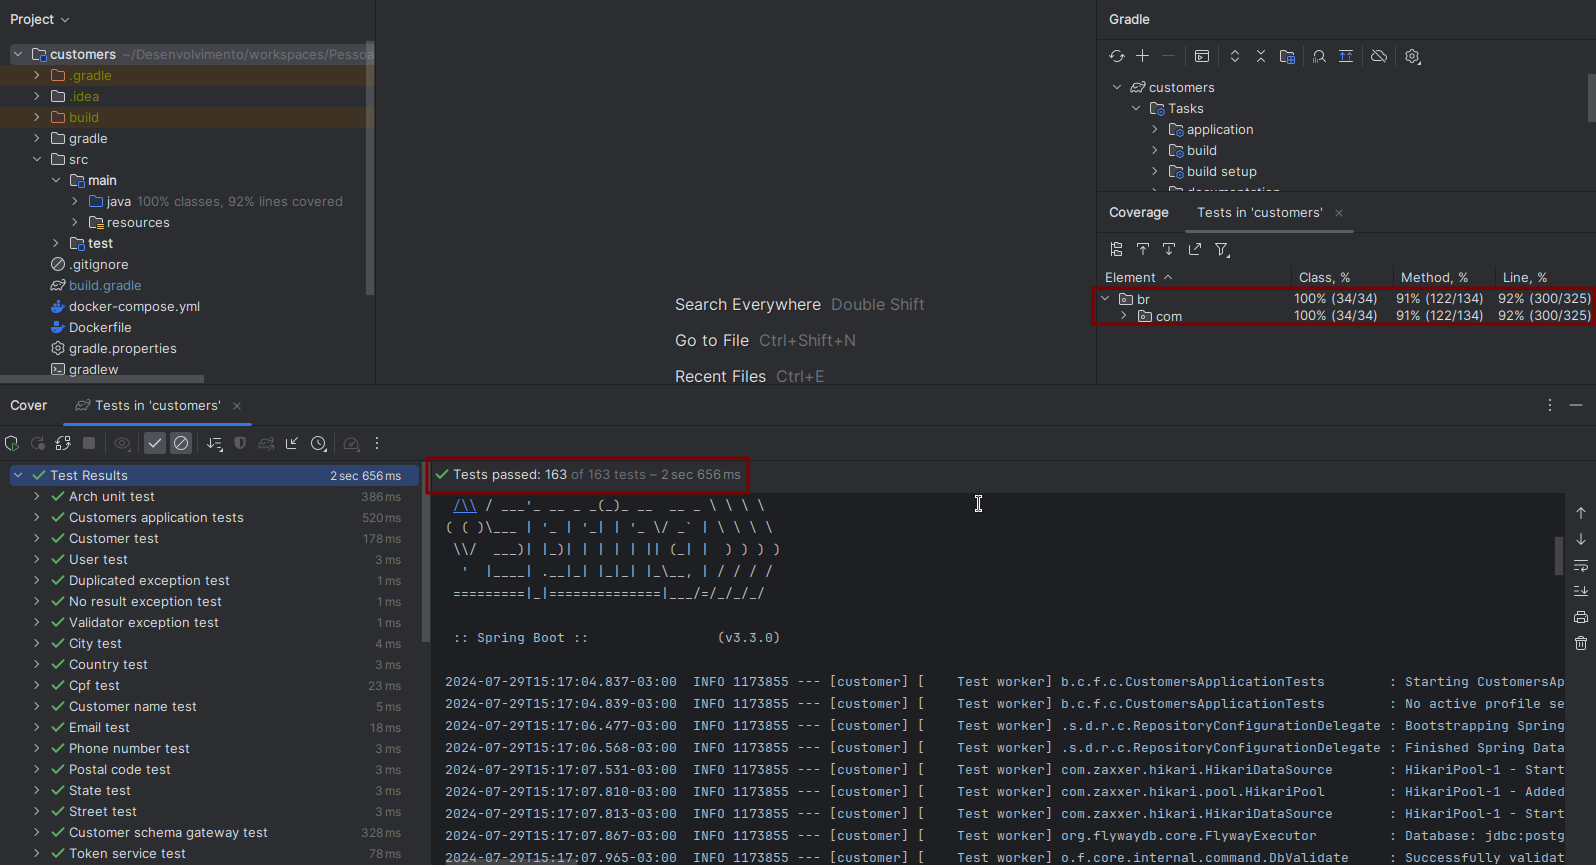
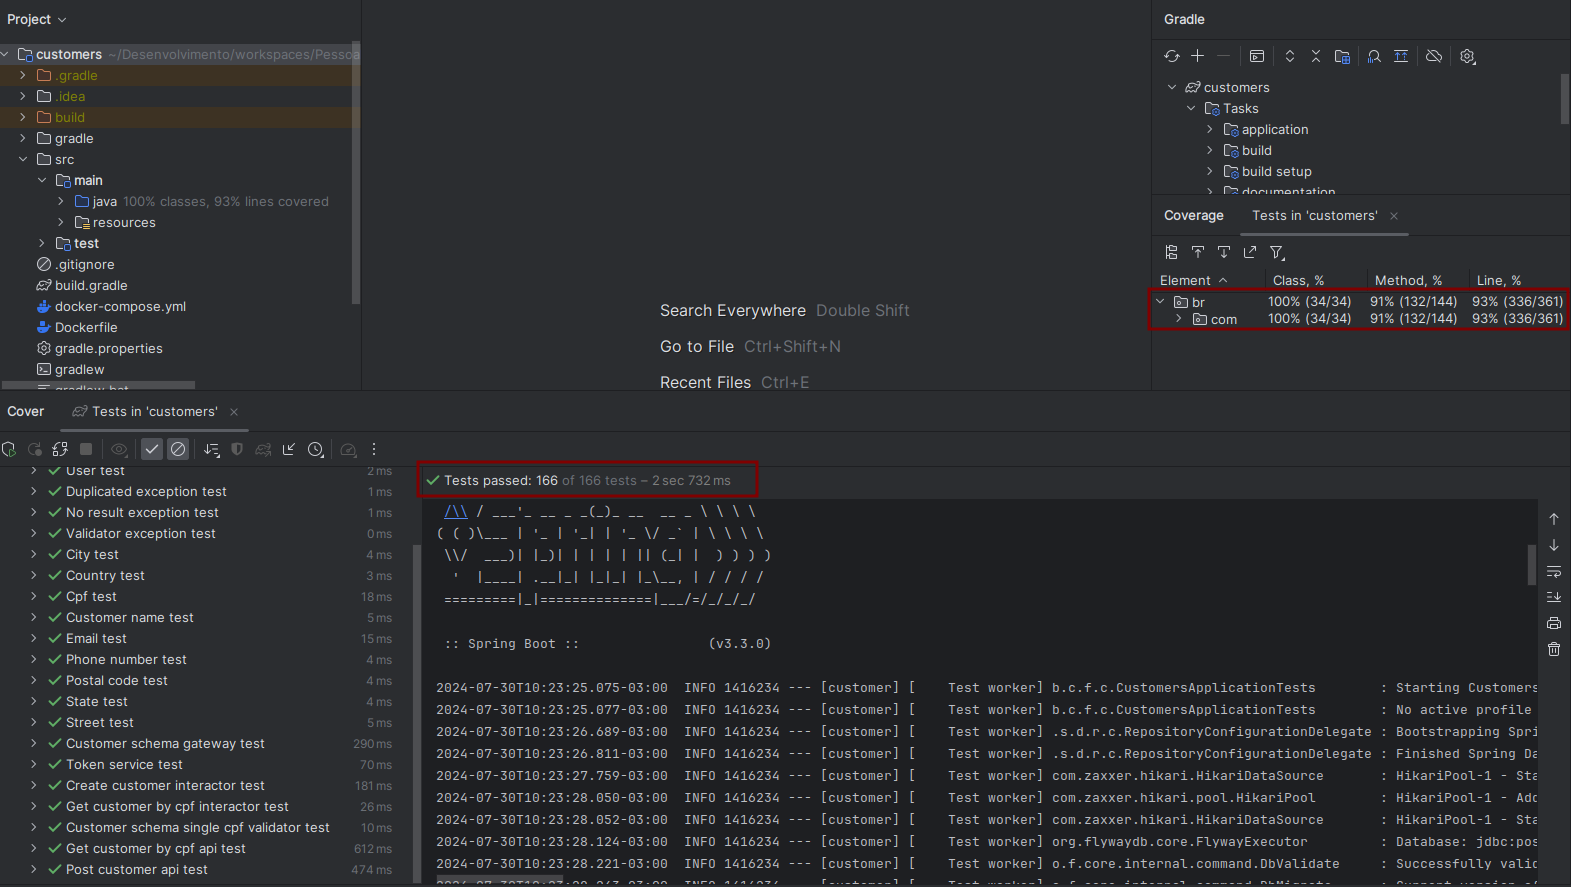
feat(customer): value objects improved. Tests.

diff --git a/customers/src/main/java/br/com/fiap/customers/domain/valueobject/PhoneNumber.java b/customers/src/main/java/br/com/fiap/customers/domain/valueobject/PhoneNumber.java
@@ -3,20 +3,58 @@ package br.com.fiap.customers.domain.valueobject;
 import br.com.fiap.customers.domain.exception.ValidatorException;
 import org.springframework.validation.FieldError;
 
-public record PhoneNumber(String phoneNumberValue) {
+public class PhoneNumber {
 
   public static final String PHONE_NUMBER_FIELD = "telefone";
   public static final String PHONE_NUMBER_NOT_NULL_MESSAGE = "O número de telefone não pode ser nulo.";
   public static final String PHONE_NUMBER_NOT_EMPTY_MESSAGE = "O número de telefone não pode ser vazio.";
+  public static final Integer PHONE_NUMBER_MIN_LENGTH = 11;
+  public static final String PHONE_NUMBER_MIN_LENGTH_MESSAGE = "O número de telefone deve possuir no mínimo %s characteres. Você informou %s.";
+  public static final Integer PHONE_NUMBER_MAX_LENGTH = 50;
+  public static final String PHONE_NUMBER_MAX_LENGTH_MESSAGE = "O número de telefone deve possuir no máximo %s characteres. Você informou %s.";
+  private final String phoneNumberValue;
 
-  public PhoneNumber {
-    if (phoneNumberValue == null) {
+  public PhoneNumber(String phoneNumberValue) {
+    validateNullPhoneNumber(phoneNumberValue);
+    validateEmptyPhoneNumber(phoneNumberValue);
+    validateMinLengthPhoneNumber(phoneNumberValue);
+    validateMaxLengthPhoneNumber(phoneNumberValue);
+    this.phoneNumberValue = phoneNumberValue;
+  }
+
+  private void validateMaxLengthPhoneNumber(String phoneNumberValue) {
+    var phoneNumberLength = phoneNumberValue.trim().length();
+    if (phoneNumberLength > PHONE_NUMBER_MAX_LENGTH) {
       throw new ValidatorException(new FieldError(this.getClass().getSimpleName(),
-          PHONE_NUMBER_FIELD, PHONE_NUMBER_NOT_NULL_MESSAGE));
+          PHONE_NUMBER_FIELD,
+          PHONE_NUMBER_MAX_LENGTH_MESSAGE.formatted(PHONE_NUMBER_MAX_LENGTH, phoneNumberLength)));
     }
+  }
+
+  private void validateMinLengthPhoneNumber(String phoneNumberValue) {
+    var phoneNumberLength = phoneNumberValue.trim().length();
+    if (phoneNumberLength < PHONE_NUMBER_MIN_LENGTH) {
+      throw new ValidatorException(new FieldError(this.getClass().getSimpleName(),
+          PHONE_NUMBER_FIELD,
+          PHONE_NUMBER_MIN_LENGTH_MESSAGE.formatted(PHONE_NUMBER_MIN_LENGTH, phoneNumberLength)));
+    }
+  }
+
+  private void validateEmptyPhoneNumber(String phoneNumberValue) {
     if (phoneNumberValue.trim().isEmpty()) {
       throw new ValidatorException(new FieldError(this.getClass().getSimpleName(),
           PHONE_NUMBER_FIELD, PHONE_NUMBER_NOT_EMPTY_MESSAGE));
     }
+  }
+
+  private void validateNullPhoneNumber(String phoneNumberValue) {
+    if (phoneNumberValue == null) {
+      throw new ValidatorException(new FieldError(this.getClass().getSimpleName(),
+          PHONE_NUMBER_FIELD, PHONE_NUMBER_NOT_NULL_MESSAGE));
+    }
+  }
+
+  public String getPhoneNumberValue() {
+    return phoneNumberValue;
   }
 }

diff --git a/customers/src/main/java/br/com/fiap/customers/domain/valueobject/Email.java b/customers/src/main/java/br/com/fiap/customers/domain/valueobject/Email.java
@@ -3,17 +3,61 @@ package br.com.fiap.customers.domain.valueobject;
 import br.com.fiap.customers.domain.exception.ValidatorException;
 import org.springframework.validation.FieldError;
 
-public record Email(String address) {
+public class Email {
 
   public static final String EMAIL_FIELD_NAME = "email";
+  public static final String EMAIL_NULL_OR_EMPTY_MESSAGE = "O endereço de email não pode ser nulo ou vazio. %s";
+  public static final Integer EMAIL_MIN_LENGTH = 5;
+  public static final String EMAIL_MIN_LENGTH_MESSAGE = "O endereço de email deve possuir no mínimo %s caracteres. %s";
+  public static final Integer EMAIL_MAX_LENGTH = 500;
+  public static final String EMAIL_MAX_LENGTH_MESSAGE = "O endereço de email deve possuir no máximo %s caracteres. %s";
   public static final String EMAIL_INVALID = "Endereço de email inválido. %s";
   public static final String EMAIL_REGEX = "^[a-zA-Z0-9._]+@[a-zA-Z0-9.-]+\\.[a-zA-Z]{2,}$";
+  private final String address;
 
-  public Email {
+  public Email(String address) {
+    validateNullOrEmpty(address);
+    validateMinLength(address);
+    validateMaxLength(address);
+    validate(address);
+    this.address = address;
+  }
+
+  private void validateMaxLength(String address) {
+    var addressLength = address.trim().length();
+    if (addressLength > EMAIL_MAX_LENGTH) {
+      throw new ValidatorException(
+          new FieldError(this.getClass().getSimpleName(), EMAIL_FIELD_NAME,
+              EMAIL_MAX_LENGTH_MESSAGE.formatted(EMAIL_MAX_LENGTH, addressLength)));
+    }
+  }
+
+  private void validateMinLength(String address) {
+    var addressLength = address.trim().length();
+    if (addressLength < EMAIL_MIN_LENGTH) {
+      throw new ValidatorException(
+          new FieldError(this.getClass().getSimpleName(), EMAIL_FIELD_NAME,
+              EMAIL_MIN_LENGTH_MESSAGE.formatted(EMAIL_MIN_LENGTH, addressLength)));
+    }
+  }
+
+  private void validateNullOrEmpty(String address) {
+    if (address == null || address.isEmpty()) {
+      throw new ValidatorException(
+          new FieldError(this.getClass().getSimpleName(), EMAIL_FIELD_NAME,
+              EMAIL_NULL_OR_EMPTY_MESSAGE.formatted(address)));
+    }
+  }
+
+  private void validate(String address) {
     if (address == null || !address.matches(EMAIL_REGEX)) {
       throw new ValidatorException(
           new FieldError(this.getClass().getSimpleName(), EMAIL_FIELD_NAME,
               EMAIL_INVALID.formatted(address)));
     }
+  }
+
+  public String getAddress() {
+    return address;
   }
 }

diff --git a/customers/src/test/java/br/com/fiap/customers/domain/valueobject/PhoneNumberTest.java b/customers/src/test/java/br/com/fiap/customers/domain/valueobject/PhoneNumberTest.java
@@ -4,8 +4,10 @@ import static br.com.fiap.customers.domain.valueobject.PhoneNumber.PHONE_NUMBER_
 import static br.com.fiap.customers.domain.valueobject.PhoneNumber.PHONE_NUMBER_NOT_NULL_MESSAGE;
 import static org.assertj.core.api.Assertions.assertThat;
 import static org.assertj.core.api.Assertions.assertThatThrownBy;
+import static org.junit.jupiter.api.Assertions.assertThrows;
 
 import br.com.fiap.customers.domain.exception.ValidatorException;
+import br.com.fiap.customers.shared.util.StringUtil;
 import org.junit.jupiter.api.Test;
 
 class PhoneNumberTest {
@@ -27,11 +29,23 @@ class PhoneNumberTest {
   }
 
   @Test
+  void shouldThrowValidatorExceptionWhenPhoneNumberMinLengthIsInvalid() {
+    var phoneNumber = "123456";
+    assertThrows(ValidatorException.class, () -> new PhoneNumber(phoneNumber));
+  }
+
+  @Test
+  void shouldThrowExceptionWhenEmailMaxLengthIsInvalid() {
+    var phoneNumber = StringUtil.generateStringLength(51);
+    assertThrows(ValidatorException.class, () -> new PhoneNumber(phoneNumber));
+  }
+
+  @Test
   void shouldValidatePhoneNumber() {
     var phoneNumber = new PhoneNumber(VALID_PHONE_NUMBER);
 
     assertThat(phoneNumber).isNotNull();
-    assertThat(phoneNumber.phoneNumberValue()).isNotNull().isNotEmpty();
-    assertThat(phoneNumber.phoneNumberValue()).isEqualTo(VALID_PHONE_NUMBER);
+    assertThat(phoneNumber.getPhoneNumberValue()).isNotNull().isNotEmpty();
+    assertThat(phoneNumber.getPhoneNumberValue()).isEqualTo(VALID_PHONE_NUMBER);
   }
 }

diff --git a/customers/src/test/java/br/com/fiap/customers/domain/valueobject/CpfTest.java b/customers/src/test/java/br/com/fiap/customers/domain/valueobject/CpfTest.java
@@ -32,9 +32,18 @@ class CpfTest {
   }
 
   @ParameterizedTest
-  @ValueSource(strings = {"1", "2", "3", "4", "5", "6", "7", "8", "9", "10", "12", "13"})
+  @ValueSource(strings = {"1", "2", "3", "4", "5", "6", "7", "8", "9", "10"})
   void shouldThrowValidatorExceptionWhenCpfValueMinLengthIsInvalid(String cpfValueMinLength) {
     var cpfValue = StringUtil.generateStringRepeatCharLength(cpfValueMinLength, Integer.valueOf(cpfValueMinLength));
+    var cpfLength = cpfValue.length();
+    assertThatThrownBy(() -> new Cpf(cpfValue))
+        .isInstanceOf(ValidatorException.class)
+        .hasMessage(CPF_LENGTH_INVALID_MESSAGE.formatted(cpfLength));
+  }
+
+  @Test
+  void shouldThrowValidatorExceptionWhenCpfValueMaxLengthIsInvalid() {
+    var cpfValue = StringUtil.generateStringRepeatCharLength("1", 12);
     var cpfLength = cpfValue.length();
     assertThatThrownBy(() -> new Cpf(cpfValue))
         .isInstanceOf(ValidatorException.class)

diff --git a/customers/src/test/java/br/com/fiap/customers/domain/valueobject/EmailTest.java b/customers/src/test/java/br/com/fiap/customers/domain/valueobject/EmailTest.java
@@ -3,6 +3,7 @@ package br.com.fiap.customers.domain.valueobject;
 import static org.junit.jupiter.api.Assertions.*;
 
 import br.com.fiap.customers.domain.exception.ValidatorException;
+import br.com.fiap.customers.shared.util.StringUtil;
 import org.junit.jupiter.api.Test;
 import org.junit.jupiter.params.ParameterizedTest;
 import org.junit.jupiter.params.provider.NullAndEmptySource;
@@ -15,6 +16,18 @@ class EmailTest {
   @Test
   void shouldCreateEmail() {
     assertDoesNotThrow(() -> new Email(DEFAULT_USER_EMAIL));
+  }
+
+  @Test
+  void shouldThrowExceptionWhenEmailMinLengthIsInvalid() {
+    var email = "a@b.c";
+    assertThrows(ValidatorException.class, () -> new Email(email));
+  }
+
+  @Test
+  void shouldThrowExceptionWhenEmailMaxLengthIsInvalid() {
+    var email = StringUtil.generateStringLength(501);
+    assertThrows(ValidatorException.class, () -> new Email(email));
   }
 
   @ParameterizedTest

diff --git a/customers/src/main/java/br/com/fiap/customers/domain/entity/Customer.java b/customers/src/main/java/br/com/fiap/customers/domain/entity/Customer.java
@@ -33,8 +33,8 @@ public class Customer {
     this.id = id;
     this.name = new CustomerName(name).getName();
     this.cpf = new Cpf(cpf).getCpfValue();
-    this.email = new Email(email).address();
-    this.phoneNumber = new PhoneNumber(phoneNumber).phoneNumberValue();
+    this.email = new Email(email).getAddress();
+    this.phoneNumber = new PhoneNumber(phoneNumber).getPhoneNumberValue();
     this.street = new Street(street).getStreetValue();
     this.city = new City(city).getCityValue();
     this.state = new State(state).getStateValue();

diff --git a/customers/src/test/java/br/com/fiap/customers/domain/entity/CustomerTest.java b/customers/src/test/java/br/com/fiap/customers/domain/entity/CustomerTest.java
@@ -22,7 +22,6 @@ import org.junit.jupiter.params.provider.ValueSource;
 
 class CustomerTest {
 
-
   @ParameterizedTest
   @NullAndEmptySource
   @ValueSource(strings = {"A"})
